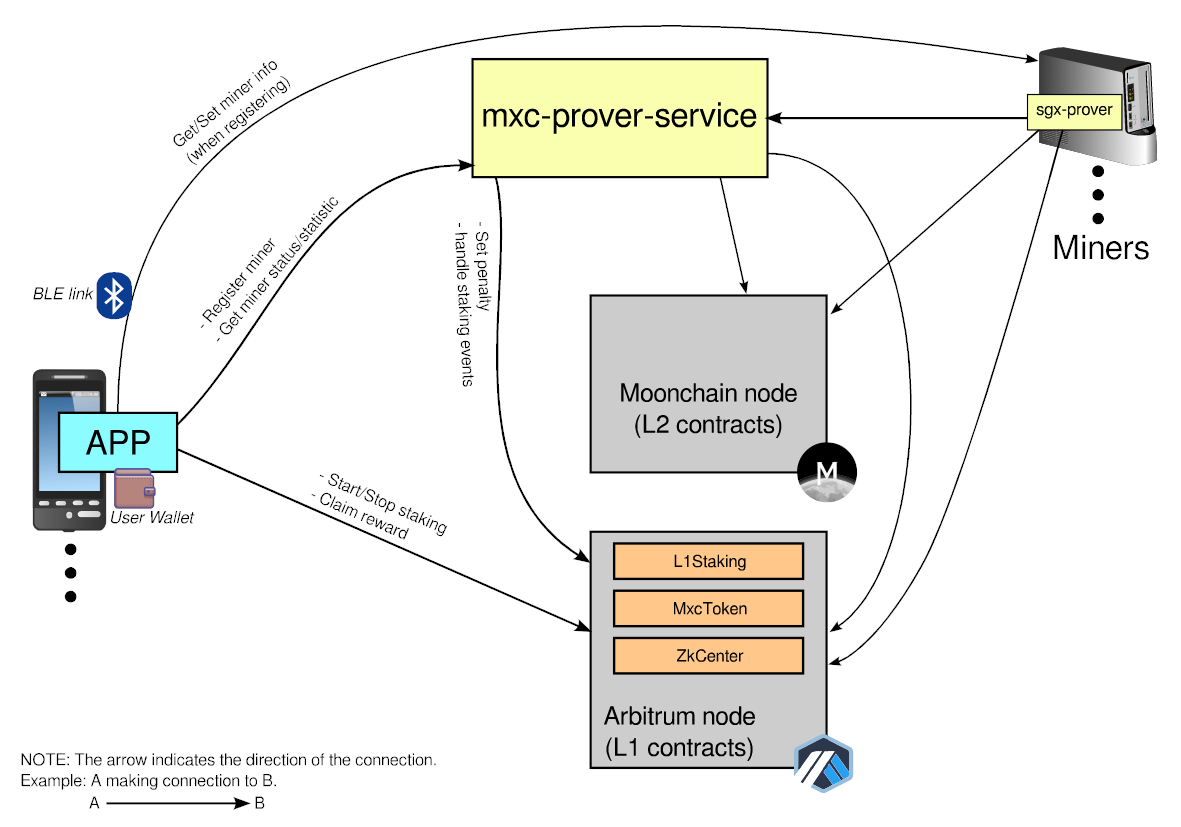
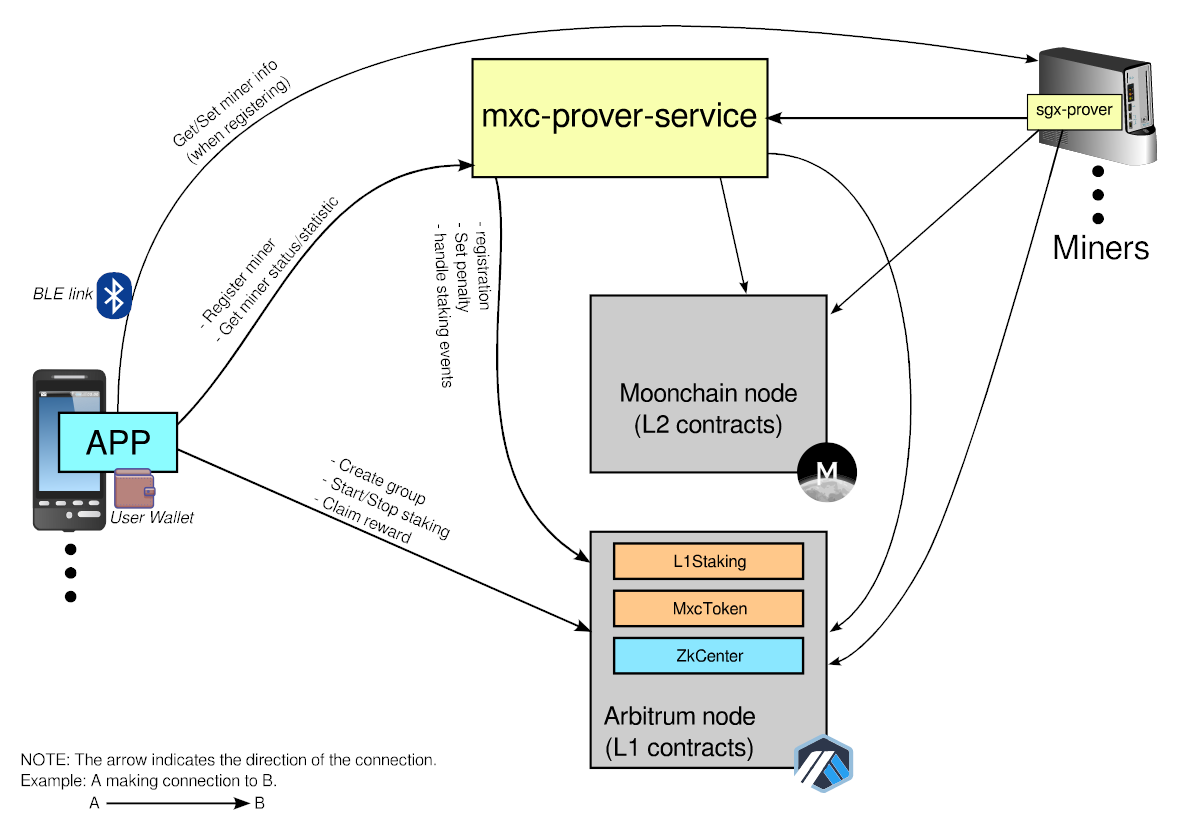
Update the flow for miner registration and staking.

Changed region(s): [[0.5182, 0.7557, 0.7011, 0.8162], [0.3658, 0.2721, 0.4268, 0.4837], [0.2743, 0.5441, 0.3963, 0.6651]]

diff --git a/docs/Moonchain-Design/zk.md b/docs/Moonchain-Design/zk.md
@@ -90,21 +90,6 @@ List of harmful actions:
 
 
 
-## Flow for miner owner
-
-Here’s an example workflow for participating in staking:
-
-1. Purchase a miner.
-2. Use the APP to create a wallet.
-3. Connect to the miner via Bluetooth using the app.
-4. Retrieve the SGX instance ID and save the wallet address to the miner.
-5. Call the API on the Proxy Service to register the miner with the wallet address and SGX instance ID.
-6. Interact with the L1 Staking Contract to stake an amount of MXC.
-
-After staking, periodically call the L1 Staking Contract to claim rewards.
-
-
-
 ## Interact with Contracts
 
 The staking process interacts with the following contracts on the Arbitrum chain:
@@ -115,36 +100,57 @@ The staking process interacts with the following contracts on the Arbitrum chain
 
   Mainnet: `0x54D8864e8855A7B66eE42B8F2Eaa0F2E06bd641a`
 
-- **Staking** (L1Staking.sol)
-
 - **MxcToken** (MxcToken.sol)
 
-The contract source code can be found in the [GitLab repository](https://github.com/MXCzkEVM/mxc-mono/tree/moonchain-mainnet/packages/protocol/contracts).
+- **L1Staking** (L1Staking.sol)
+
+- **ZkCenter** (ZkCenter.sol)
+
+
+The contract source code can be found in the [mxc-mono repository](https://github.com/MXCzkEVM/mxc-mono/tree/moonchain-mainnet/packages/protocol/contracts) and [mxc-zkcenter repository](https://github.com/MXCzkEVM/mxc-zkcenter).
 
 
 
 Below are the example flows for basic staking actions.
 
-#### Get contract address of Staking and MxcToken contracts.
+#### Get contract addresses from MXCL1.
 
 ```mermaid
 sequenceDiagram
-  APP->>+MXCL1: resolve(encodeBytes32String('staking'))
-  MXCL1-->>-APP: Address of Staking Contract
   APP->>+MXCL1: resolve(encodeBytes32String('taiko_token'))
   MXCL1-->>-APP: Address of MxcToken Contract
+  APP->>+MXCL1: resolve(encodeBytes32String('staking'))
+  MXCL1-->>-APP: Address of L1Staking Contract
+  APP->>+MXCL1: resolve(encodeBytes32String('zkcenter'))
+  MXCL1-->>-APP: Address of ZkCenter Contract
 ```
 
 
 
-#### Stake
+#### Create a group and stake (for miner owner)
 
 ```mermaid
 sequenceDiagram
-  APP->>+MxcToken: approve(stakingAddress, amount)
+  Note right of APP: Registered 1 or more miner(s)
+  APP->>+ZkCenter: miningGroupCreate
+  ZkCenter-->>-APP: success
+  APP->>+MxcToken: approve(addressL1Staking, amount)
   MxcToken-->>-APP: Success
-  APP->>+Staking: stake(userAddress, amount)
-  Staking-->>-APP: Success
+  APP->>+ZkCenter: stakeDeposit(amount)
+  ZkCenter-->>-APP: Success
+```
+
+
+
+#### Stake (non miner owner)
+
+```mermaid
+sequenceDiagram
+  Note right of APP: Select a group
+  APP->>+MxcToken: approve(addressL1Staking, amount)
+  MxcToken-->>-APP: Success
+  APP->>+ZkCenter: stakeToGroup(groupId, amount)
+  ZkCenter-->>-APP: Success
 ```
 
 
@@ -153,11 +159,11 @@ sequenceDiagram
 
 ```mermaid
 sequenceDiagram
-  APP->>+Staking: stakingCalculateRewardDebt(userAddress)
-  Staking-->>-APP: Amount of rewarding
-  Note over APP,Staking: Proceed if rewarding > 0
-  APP->>+Staking: stakingClaimReward()
-  Staking-->>-APP: Success
+  APP->>+ZkCenter: stakeGetGrossReward()
+  ZkCenter-->>-APP: Gross amount
+  Note over APP,ZkCenter: Proceed if amount > 0
+  APP->>+ZkCenter: stakeClaimReward()
+  ZkCenter-->>-APP: Success
 
 ```
 
@@ -165,19 +171,14 @@ sequenceDiagram
 
 ```mermaid
 sequenceDiagram
-  Note over APP,Staking: Perform the request first.
-  APP->>+Staking: stakingRequestWithdrawal(false)
-  Staking-->>-APP: Success
-  Note over APP,Staking: Wait for lock period.
-  APP->>+Staking: read WITHDRAWAL_LOCK_EPOCH
-  Staking-->>-APP: Withdraw Lock Epoch
-  APP->>+Staking: getCurrentEpoch()
-  Staking-->>-APP: Current Epoch
-  APP->>+Staking: stakingUserState(userAddress)
-  Staking-->>-APP: withdrawalRequestEpoch
-  Note over APP,Staking: Proceed if (Request + Lock) >= Current
-  APP->>+Staking: stakingWithdrawal()
-  Staking-->>-APP: Success
+  Note over APP,ZkCenter: Perform the request first.
+  APP->>+ZkCenter: stakeRequestWithdraw(false)
+  ZkCenter-->>-APP: Success
+  Note over APP,ZkCenter: Wait for lock period.
+  APP->>+ZkCenter: stakeClaimReward()
+  ZkCenter-->>-APP: Success
+  APP->>+ZkCenter: stakeWithdraw()
+  ZkCenter-->>-APP: Success
 
 ```
 
@@ -328,13 +329,28 @@ Example response:
 
 ## Miner Registration Flow
 
+Here’s an example flow for registering a miner.
+
+1. Purchase a miner.
+2. Use the APP to create a wallet.
+3. Connect to the miner via Bluetooth using the app.
+4. The APP getting the instance ID via Bluetooth.
+5. Perform first registration step with Prover Service with the wallet address and instance ID.
+6. Save the wallet address and the received agent token to the miner. Then restart the service at miner.
+7. Perform second registration step with Prover Service.
+8. Claim the SGX miner NFT.
+
+
+
 ```mermaid
 sequenceDiagram
   loop Not registered
     Miner->>+ProverService: ping
     ProverService-->>-Miner: Auth failed
   end
-  Note over APP,Miner: Start of registration
+  Note over ZkCenter,Miner: Start of registration
+  APP->>+Miner: Get miner's instance ID
+  Miner-->>-APP: Instance ID
   APP->>+ProverService: registerMiner1
   ProverService-->>-APP: agentToken
   APP->>+Miner: Save walletAddress and agentToken
@@ -343,7 +359,11 @@ sequenceDiagram
   Miner->>+ProverService: ping with correct agentToken
   ProverService-->>-Miner: success
   APP->>+ProverService: registerMiner2
+  ProverService->>+ZkCenter: minerRegister
+  ZkCenter-->>-ProverService: success
   ProverService-->>-APP: appToken
+  APP->>+ZkCenter: minerClaim
+  ZkCenter-->>-APP: success
   Note over APP,Miner: End of registration
   opt APP operations
     APP->>+ProverService: minerStatus
